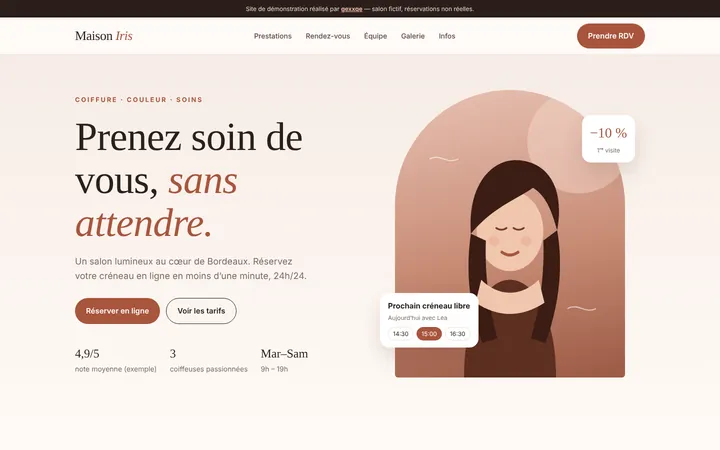
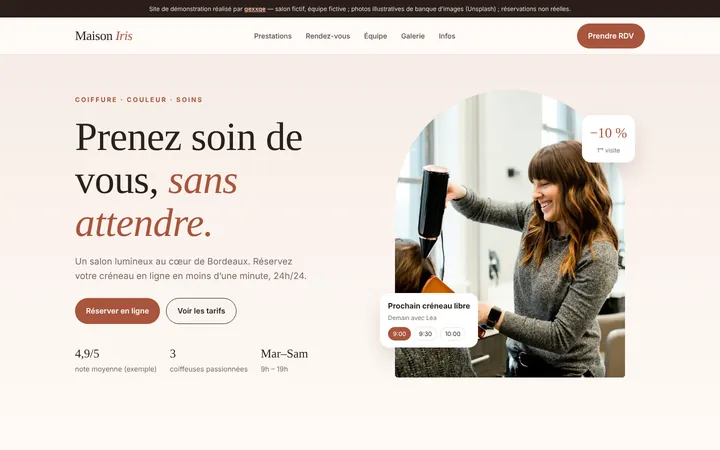
Publish salon demo with verified photos; refresh card thumbnail; remove preview
Claude-Session: https://claude.ai/code/session_018eYywhZyxsmBzVAYUzvwuf

Changed region(s): [[0.5194, 0.1867, 0.8861, 0.84], [0.2139, 0.0, 0.7944, 0.0311]]

diff --git a/demos/salon/index.html b/demos/salon/index.html
@@ -12,7 +12,7 @@
 <link href="https://fonts.googleapis.com/css2?family=Fraunces:opsz,wght@9..144,400;9..144,500;9..144,600&family=DM+Sans:wght@400;500;600;700&display=swap" rel="stylesheet">
 <style>
 :root{--blush:#f6ece6;--rose:#e9cfc4;--terra:#a8553c;--terra2:#8d4430;--ink:#2b1f1b;--muted:#7b6a63;--line:#ead9d0;--cream:#fffaf6}
-*{box-sizing:border-box}html{scroll-behavior:smooth}
+*{box-sizing:border-box}html{scroll-behavior:smooth;scroll-padding-top:90px}
 body{margin:0;font-family:"DM Sans",system-ui,sans-serif;color:var(--ink);background:var(--cream);line-height:1.6}
 h1,h2,h3{font-family:Fraunces,Georgia,serif;font-weight:500;line-height:1.08;margin:0;letter-spacing:-.01em}
 a{color:inherit;text-decoration:none}
@@ -38,7 +38,7 @@ header{position:sticky;top:0;z-index:20;background:rgba(255,250,246,.92);backdro
 .hero-meta b{display:block;font-family:Fraunces,serif;font-size:24px;color:var(--ink);font-weight:500}
 .arch-wrap{position:relative;justify-self:center;width:min(100%,460px)}
 .arch{aspect-ratio:4/5;border-radius:999px 999px 26px 26px;overflow:hidden;background:linear-gradient(170deg,#e7c1b2,#c98d77 55%,#9b5a45)}
-.arch svg{width:100%;height:100%}
+.arch svg,.arch img{width:100%;height:100%;display:block;object-fit:cover}
 .float-card{position:absolute;background:#fff;border-radius:18px;padding:14px 16px;box-shadow:0 20px 40px rgba(80,40,30,.15);font-size:14px}
 .float-card b{display:block;font-size:15px}
 .fc1{left:-30px;bottom:60px}.fc2{right:-20px;top:50px;text-align:center}
@@ -103,21 +103,21 @@ input:focus{outline:none;border-color:var(--terra)}
 .gallery{display:grid;grid-template-columns:repeat(4,1fr);grid-auto-rows:180px;gap:12px;grid-auto-flow:dense}
 .g{border-radius:18px;overflow:hidden}
 .g:nth-child(1){grid-row:span 2}.g:nth-child(4){grid-column:span 2}
-.g svg{width:100%;height:100%}
+.g{margin:0}.g svg,.g img{width:100%;height:100%;display:block;object-fit:cover}
 .info{display:grid;grid-template-columns:1fr 1fr 1fr;gap:20px}
 .info-card{background:#fff;border:1px solid var(--line);border-radius:22px;padding:28px}
 .info-card h3{font-size:22px;margin-bottom:12px}
 .hours div{display:flex;justify-content:space-between;font-size:14px;padding:5px 0;border-bottom:1px dashed var(--line)}
 .hours div:last-child{border:0}
-footer{background:var(--ink);color:#cdbcb4;padding:40px 0;font-size:14px}
+.demo-info{padding:60px 0;border-top:1px solid var(--line)}.di-grid{display:grid;grid-template-columns:1fr 1fr;gap:30px;margin-top:14px}.demo-info h3{font-size:24px;margin-bottom:8px}.demo-info ul{margin:0;padding-left:18px;color:var(--muted);font-size:15px}.demo-info li{margin:4px 0}@media(max-width:700px){.di-grid{grid-template-columns:1fr;gap:16px}}footer{background:var(--ink);color:#cdbcb4;padding:40px 0;font-size:14px}
 .foot{display:flex;justify-content:space-between;gap:20px;flex-wrap:wrap;align-items:center}
 .foot .logo{color:#fff}
-@media(max-width:960px){.menu{display:none}.hero-grid,.booking{grid-template-columns:1fr}.summary{position:static}.team{grid-template-columns:1fr 1fr 1fr;gap:12px}.info{grid-template-columns:1fr}.gallery{grid-template-columns:1fr 1fr}.g:nth-child(4){grid-column:span 1}}
+@media(max-width:960px){.menu{display:none}.hero-grid,.booking{grid-template-columns:1fr}.summary{position:static}.team{grid-template-columns:1fr 1fr 1fr;gap:12px}.info{grid-template-columns:1fr}.gallery{grid-template-columns:1fr 1fr}.g:nth-child(4){grid-column:span 1}.g:nth-child(6){grid-column:span 2}}
 @media(max-width:620px){section{padding:70px 0}.nav .btn{padding:10px 16px;font-size:14px}.fc1{left:0}.fc2{right:0}.svc-grid{grid-template-columns:1fr}.days{grid-template-columns:repeat(4,1fr)}.slots{grid-template-columns:repeat(3,1fr)}.panel{padding:22px}.price-list{padding:6px 20px}.pl-item{grid-template-columns:1fr auto}.dur{grid-column:1}.team{grid-template-columns:1fr}.portrait{max-width:260px;margin:0 auto 16px}}
 </style>
 </head>
 <body>
-<div class="demo-bar">Site de démonstration réalisé par <a href="/">gexxqe</a> — salon fictif, réservations non réelles.</div>
+<div class="demo-bar">Site de démonstration réalisé par <a href="/">gexxqe</a> — salon fictif, équipe fictive ; photos illustratives de banque d’images (Unsplash) ; réservations non réelles.</div>
 <header><div class="wrap nav"><a class="logo" href="#">Maison <i>Iris</i></a><nav class="menu"><a href="#tarifs">Prestations</a><a href="#rdv">Rendez-vous</a><a href="#equipe">Équipe</a><a href="#galerie">Galerie</a><a href="#infos">Infos</a></nav><a class="btn btn-terra" href="#rdv">Prendre RDV</a></div></header>
 
 <section class="hero">
@@ -130,18 +130,8 @@ footer{background:var(--ink);color:#cdbcb4;padding:40px 0;font-size:14px}
       <div class="hero-meta"><div><b>4,9/5</b>note moyenne (exemple)</div><div><b>3</b>coiffeuses passionnées</div><div><b>Mar–Sam</b>9h – 19h</div></div>
     </div>
     <div class="arch-wrap">
-      <div class="arch" aria-hidden="true">
-        <svg viewBox="0 0 400 500" preserveAspectRatio="xMidYMid slice">
-          <circle cx="320" cy="90" r="90" fill="#f3d6c9" opacity=".5"/>
-          <path d="M120 500c0-110 40-170 80-170s80 60 80 170z" fill="#5d2f22"/>
-          <ellipse cx="200" cy="245" rx="58" ry="70" fill="#f0c7ae"/>
-          <g fill="none" stroke="#7a3b28" stroke-width="3" stroke-linecap="round"><path d="M176 240q9 6 18 0"/><path d="M206 240q9 6 18 0"/></g><path d="M186 282q14 10 28 0" stroke="#a8553c" stroke-width="5" fill="none" stroke-linecap="round"/><circle cx="172" cy="262" r="9" fill="#e8a58e" opacity=".5"/><circle cx="228" cy="262" r="9" fill="#e8a58e" opacity=".5"/><path d="M132 250c-6-90 40-130 80-128 52 2 84 46 70 122-10-36-20-60-42-74-28 20-70 34-108 80z" fill="#3b1d14"/>
-          <path d="M132 250c-12 80 4 150 20 190l26-8c-14-50-22-110-20-170zM282 244c14 80-4 150-20 196l-26-8c16-50 24-110 22-170z" fill="#3b1d14"/>
-          <path d="M150 330c30 30 70 30 100 0l10 40c-40 26-80 26-120 0z" fill="#f0c7ae"/>
-          <g stroke="#fff" stroke-width="2" opacity=".55" fill="none"><path d="M60 120c20-10 30 10 50 0"/><path d="M300 380c20-10 30 10 50 0"/></g>
-        </svg>
-      </div>
-      <div class="float-card fc1"><b>Prochain créneau libre</b><span class="small">Aujourd’hui avec Léa</span><div class="slots-mini"><span>14:30</span><span class="on">15:00</span><span>16:30</span></div></div>
+      <div class="arch"><img src="img/hero-coiffeuse-600.webp" srcset="img/hero-coiffeuse-600.webp 600w, img/hero-coiffeuse-1000.webp 1000w" sizes="(max-width:960px) 90vw, 460px" width="600" height="750" alt="Coiffeuse souriante réalisant un brushing au sèche-cheveux" fetchpriority="high" decoding="async"></div>
+      <div class="float-card fc1" id="nextCard"><b>Prochain créneau libre</b><span class="small" id="nextWhen">avec Léa</span><div class="slots-mini" id="nextSlots"></div></div>
       <div class="float-card fc2"><span class="big">−10 %</span><br><span class="small">1ʳᵉ visite</span></div>
     </div>
   </div>
@@ -197,14 +187,14 @@ footer{background:var(--ink);color:#cdbcb4;padding:40px 0;font-size:14px}
 
 <section id="galerie" style="padding-top:0">
   <div class="wrap">
-    <div class="sec-head"><span class="eyebrow">Le salon</span><h2>Un lieu pensé pour se poser.</h2></div>
-    <div class="gallery" aria-hidden="true">
-      <div class="g"><svg viewBox="0 0 200 380" preserveAspectRatio="xMidYMid slice"><rect width="200" height="380" fill="#e9cfc4"/><rect x="40" y="40" width="120" height="170" rx="60" fill="#fff" opacity=".7"/><rect x="60" y="240" width="80" height="90" rx="10" fill="#a8553c"/><rect x="50" y="230" width="100" height="16" rx="8" fill="#8d4430"/></svg></div>
-      <div class="g"><svg viewBox="0 0 200 180" preserveAspectRatio="xMidYMid slice"><rect width="200" height="180" fill="#f4e4da"/><circle cx="100" cy="90" r="50" fill="#c98d77"/><path d="M60 100c20-40 60-40 80 0" stroke="#fff" stroke-width="6" fill="none"/></svg></div>
-      <div class="g"><svg viewBox="0 0 200 180" preserveAspectRatio="xMidYMid slice"><rect width="200" height="180" fill="#2b1f1b"/><g fill="#e9cfc4"><rect x="30" y="60" width="20" height="80" rx="6"/><rect x="60" y="40" width="20" height="100" rx="6"/><rect x="90" y="70" width="20" height="70" rx="6"/><rect x="120" y="50" width="20" height="90" rx="6"/><rect x="150" y="80" width="20" height="60" rx="6"/></g></svg></div>
-      <div class="g"><svg viewBox="0 0 400 180" preserveAspectRatio="xMidYMid slice"><rect width="400" height="180" fill="#d8b4a4"/><path d="M0 140c80-40 160 20 240-10s120-50 160-20v70H0z" fill="#a8553c" opacity=".6"/><circle cx="320" cy="50" r="26" fill="#fff" opacity=".6"/></svg></div>
-      <div class="g"><svg viewBox="0 0 200 180" preserveAspectRatio="xMidYMid slice"><rect width="200" height="180" fill="#fbf0eb"/><path d="M100 30c30 40 30 80 0 120-30-40-30-80 0-120z" fill="#7d8f6a"/><rect x="80" y="140" width="40" height="30" rx="4" fill="#a8553c"/></svg></div>
-      <div class="g"><svg viewBox="0 0 200 180" preserveAspectRatio="xMidYMid slice"><rect width="200" height="180" fill="#c98d77"/><rect x="50" y="30" width="100" height="120" rx="50" fill="#f6ece6" opacity=".85"/></svg></div>
+    <div class="sec-head"><span class="eyebrow">En images</span><h2>Un lieu pensé pour se poser.</h2></div>
+    <div class="gallery">
+      <figure class="g"><img src="img/brosse-cheveux-700.webp" width="700" height="1050" alt="Brushing à la brosse ronde sur cheveux blonds" loading="lazy" decoding="async" style="object-position:50% 35%"></figure>
+      <figure class="g"><img src="img/salon-fauteuils-700.webp" width="700" height="467" alt="Fauteuils roses face au grand miroir" loading="lazy" decoding="async" style="object-position:50% 60%"></figure>
+      <figure class="g"><img src="img/brushing-700.webp" width="700" height="467" alt="Brushing au sèche-cheveux" loading="lazy" decoding="async" style="object-position:50% 40%"></figure>
+      <figure class="g"><img src="img/outils-700.webp" width="700" height="467" alt="Brosses, ciseaux et pinceau à coloration" loading="lazy" decoding="async" style="object-position:50% 50%"></figure>
+      <figure class="g"><img src="img/boucles-700.webp" width="700" height="467" alt="Mise en boucles au fer à friser" loading="lazy" decoding="async" style="object-position:40% 30%"></figure>
+      <figure class="g"><img src="img/soin-lavage-700.webp" width="700" height="467" alt="Shampoing et soin au bac" loading="lazy" decoding="async" style="object-position:55% 45%"></figure>
     </div>
   </div>
 </section>
@@ -217,6 +207,7 @@ footer{background:var(--ink);color:#cdbcb4;padding:40px 0;font-size:14px}
   </div>
 </section>
 
+<section class="demo-info" aria-label="Ce que montre cette démo"><div class="wrap"><span class="eyebrow">À propos de cette démo</span><div class="di-grid"><div><h3>Fonctionnel</h3><ul><li>Onglets de tarifs par catégorie</li><li>Parcours de réservation : prestation, coiffeuse, jour, créneau, récapitulatif</li><li>Mise en page adaptée mobile, tablette et ordinateur</li></ul></div><div><h3>Simulé</h3><ul><li>Créneaux et disponibilités : générés pour la démo, aucune réservation n’est créée.</li><li>Pour un vrai salon : connexion à l’agenda (Planity, Google Agenda…) et rappels SMS via un service dédié.</li><li>Salon et équipe fictifs ; avis et note d’exemple ; photos de banque d’images.</li></ul></div></div></div></section>
 <footer><div class="wrap foot"><span class="logo">Maison <i style="color:#f1b9a5">Iris</i></span><span>Salon fictif · Site démo réalisé par <a href="/" style="color:#f1b9a5">gexxqe</a></span></div></footer>
 
 <script>
@@ -245,16 +236,24 @@ sEl.addEventListener('click',e=>{const b=e.target.closest('.staff');if(!b)return
 const daysEl=document.getElementById('days');const days=[];const d0=new Date();
 for(let k=0;days.length<7;k++){const d=new Date(d0);d.setDate(d0.getDate()+k);days.push(d)}
 const dn=['dim','lun','mar','mer','jeu','ven','sam'],mn=['janv.','févr.','mars','avr.','mai','juin','juil.','août','sept.','oct.','nov.','déc.'];
-daysEl.innerHTML=days.map((d,i)=>{const closed=d.getDay()===0||d.getDay()===1;return `<button type="button" class="day" data-i="${i}" ${closed?'disabled title="Fermé"':''}><small>${dn[d.getDay()]}</small><b>${d.getDate()}</b><small>${mn[d.getMonth()]}</small></button>`}).join('');
+daysEl.innerHTML=days.map((d,i)=>{const lastSlot=(d.getDay()===6?18:19)*60-30,nowMin=d0.getHours()*60+d0.getMinutes();const closed=d.getDay()===0||d.getDay()===1||(i===0&&nowMin>=lastSlot);return `<button type="button" class="day" data-i="${i}" ${closed?'disabled title="Fermé"':''}><small>${dn[d.getDay()]}</small><b>${d.getDate()}</b><small>${mn[d.getMonth()]}</small></button>`}).join('');
 daysEl.addEventListener('click',e=>{const b=e.target.closest('.day');if(!b||b.disabled)return;daysEl.querySelectorAll('.day').forEach(x=>x.classList.remove('sel'));b.classList.add('sel');st.day=days[+b.dataset.i];st.slot=null;renderSlots();sum()});
 const slotsEl=document.getElementById('slots'),hint=document.getElementById('slotHint');
 function seeded(n){let x=Math.sin(n)*10000;return x-Math.floor(x)}
+// Source unique des disponibilités : utilisée par le formulaire ET par la carte « Prochain créneau libre ».
+function slotsFor(day,staff){const end=day.getDay()===6?18:19;const times=[];for(let h=9;h<end;h++)for(const m of[0,30])times.push(`${h}:${m?'30':'00'}`);
+ const seed=day.getDate()*7+staff.length;const now=new Date();const today=day.toDateString()===now.toDateString();
+ return times.map((t,i)=>{const [h,m]=t.split(':').map(Number);const past=today&&(h*60+m)<=now.getHours()*60+now.getMinutes();return {t,taken:past||seeded(seed+i)<.35}})}
 function renderSlots(){if(!st.day){slotsEl.innerHTML='';return}
- const end=st.day.getDay()===6?18:19;const times=[];for(let h=9;h<end;h++)for(const m of[0,30])times.push(`${h}:${m?'30':'00'}`);
- const seed=st.day.getDate()*7+st.staff.length;
- const now=new Date();const today=st.day.toDateString()===now.toDateString();
- slotsEl.innerHTML=times.map((t,i)=>{const [h,m]=t.split(':').map(Number);const past=today&&(h*60+m)<=now.getHours()*60+now.getMinutes();const taken=past||seeded(seed+i)<.35;return `<button type="button" class="slot${st.slot===t?' sel':''}" ${taken?'disabled':''}>${t}</button>`}).join('');
+ slotsEl.innerHTML=slotsFor(st.day,st.staff).map(x=>`<button type="button" class="slot${st.slot===x.t?' sel':''}" ${x.taken?'disabled':''}>${x.t}</button>`).join('');
  hint.textContent=st.svc?'Les créneaux barrés sont déjà pris.':'Astuce : choisissez aussi une prestation.';}
+(function nextFree(){const staff='Léa';
+ for(let i=0;i<days.length;i++){const b=daysEl.querySelector(`.day[data-i="${i}"]`);if(!b||b.disabled)continue;
+  const free=slotsFor(days[i],staff).filter(x=>!x.taken).slice(0,3);if(!free.length)continue;
+  const when=i===0?'Aujourd’hui':i===1?'Demain':`${dn[days[i].getDay()]} ${days[i].getDate()} ${mn[days[i].getMonth()]}`;
+  document.getElementById('nextWhen').textContent=`${when} avec ${staff}`;
+  document.getElementById('nextSlots').innerHTML=free.map((x,k)=>`<span${k===0?' class="on"':''}>${x.t}</span>`).join('');return}
+ document.getElementById('nextCard').hidden=true;})();
 slotsEl.addEventListener('click',e=>{const b=e.target.closest('.slot');if(!b||b.disabled)return;slotsEl.querySelectorAll('.slot').forEach(x=>x.classList.remove('sel'));b.classList.add('sel');st.slot=b.textContent;sum()});
 const $=id=>document.getElementById(id);
 function dateTxt(){return st.day?`${dn[st.day.getDay()]} ${st.day.getDate()} ${mn[st.day.getMonth()]}${st.slot?' · '+st.slot:''}`:'—'}
